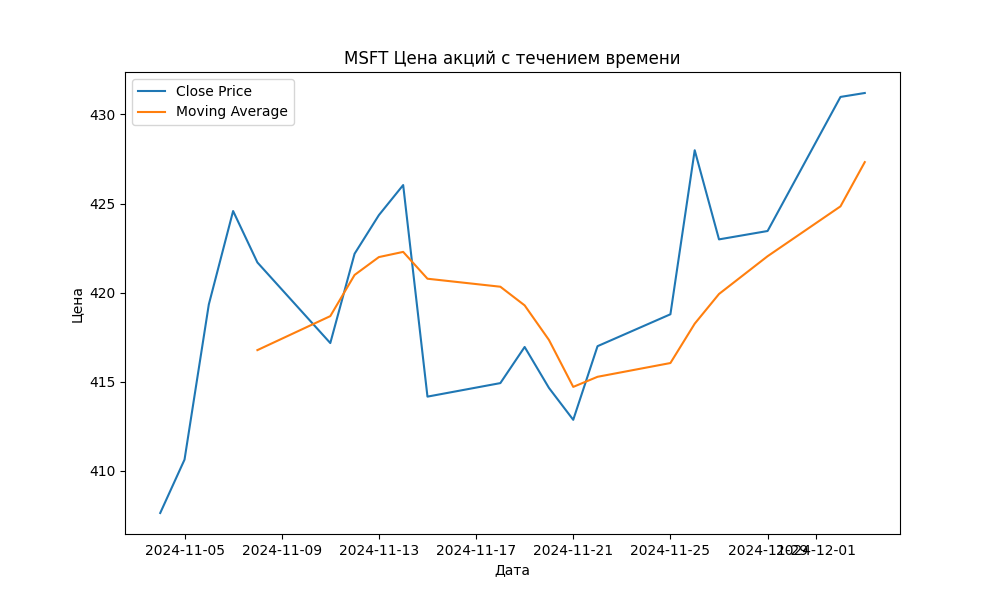
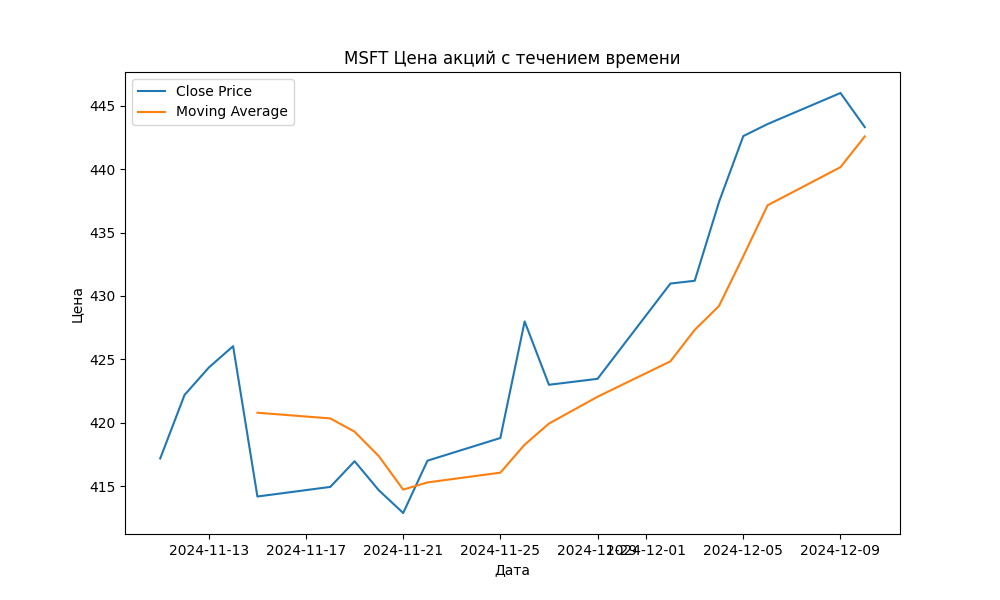
Проект 1, Finance analyzer, task 4: - RSI indicator added to data && plot

diff --git a/Проект 1/data_download.py b/Проект 1/data_download.py
@@ -1,3 +1,5 @@
+import pandas
+import pandas_ta
 import yfinance as yf
 
 
@@ -9,4 +11,17 @@ def fetch_stock_data(ticker, period='1mo'):
 
 def add_moving_average(data, window_size=5):
     data['Moving_Average'] = data['Close'].rolling(window=window_size).mean()
+    return data
+
+
+def add_rsi(data: pandas.DataFrame, length: int = 14) -> pandas.DataFrame:
+    """
+        Добавляет к данным информацию о техническом индикаторе RSI
+
+    :param data: pandes.DataFrame, данные об акциях за период
+    :param length: int, расчетный период индикатора, в днях (рекомендуются: 9, 14, 25)
+    :return: data: pandas.DataFrame, дополненные индикатором PSI данные об акциях за период
+    """
+
+    data['RSI'] = pandas_ta.rsi(data['Close'], length=length)
     return data

diff --git a/Проект 1/main.py b/Проект 1/main.py
@@ -1,4 +1,4 @@
-import data_download as dd
+import data_download
 import data_plotting as dplt
 from utils import *
 
@@ -12,10 +12,13 @@ def main():
     period = input("Введите период для данных (например, '1mo' для одного месяца): ")
 
     # Fetch stock data
-    stock_data = dd.fetch_stock_data(ticker, period)
+    stock_data = data_download.fetch_stock_data(ticker, period)
 
     # Add moving average to the data
-    stock_data = dd.add_moving_average(stock_data)
+    stock_data = data_download.add_moving_average(stock_data)
+
+    # Add RSI to the data
+    stock_data = data_download.add_rsi(stock_data)
 
     # Plot the data
     dplt.create_and_save_plot(stock_data, ticker, period)

diff --git a/Проект 1/data_plotting.py b/Проект 1/data_plotting.py
@@ -10,6 +10,7 @@ def create_and_save_plot(data, ticker, period, filename=None):
             dates = data.index.to_numpy()
             plt.plot(dates, data['Close'].values, label='Close Price')
             plt.plot(dates, data['Moving_Average'].values, label='Moving Average')
+            plt.plot(dates, data['RSI'].values, label='PSI')
         else:
             print("Информация о дате отсутствует или не имеет распознаваемого формата.")
             return
